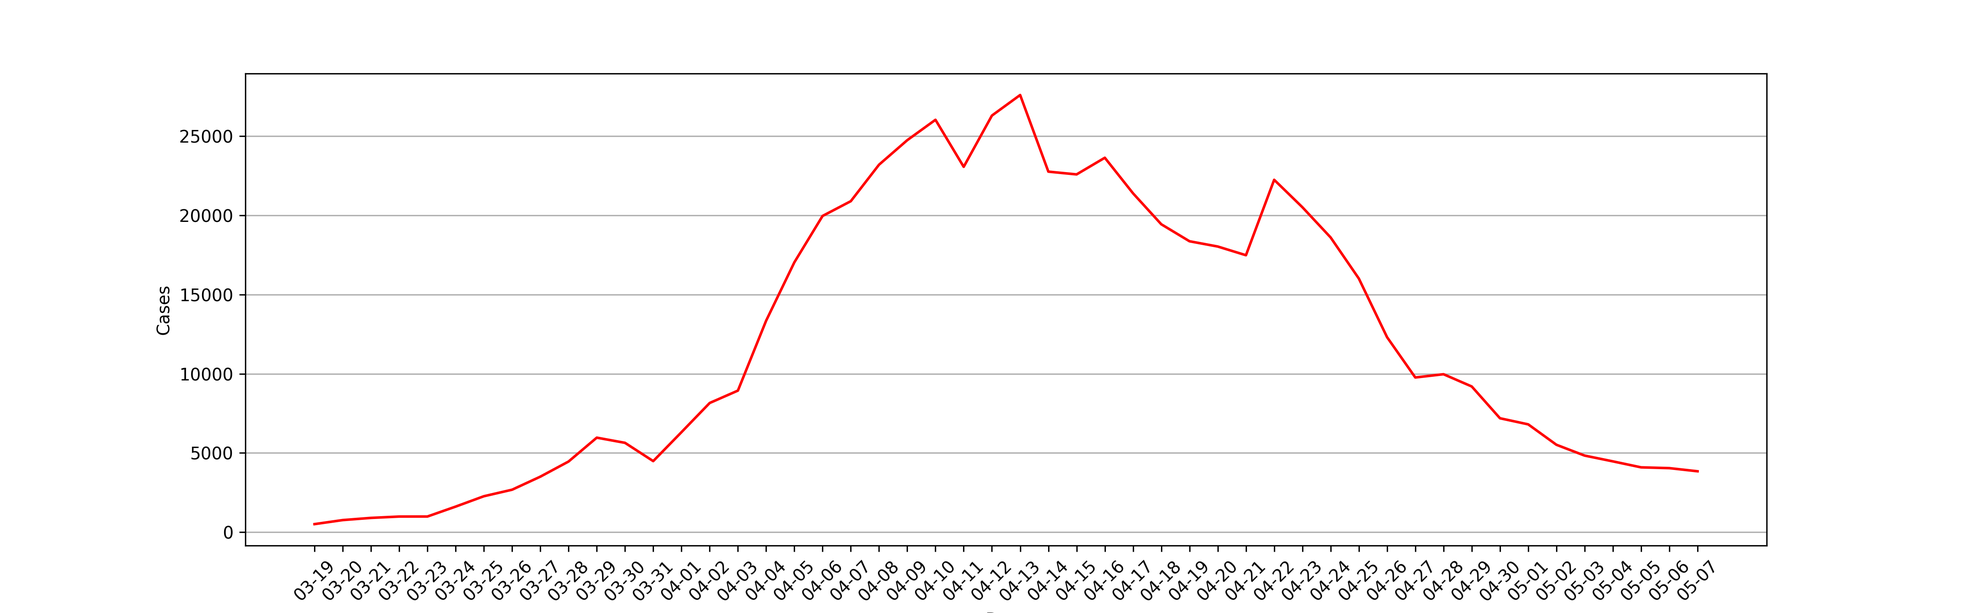
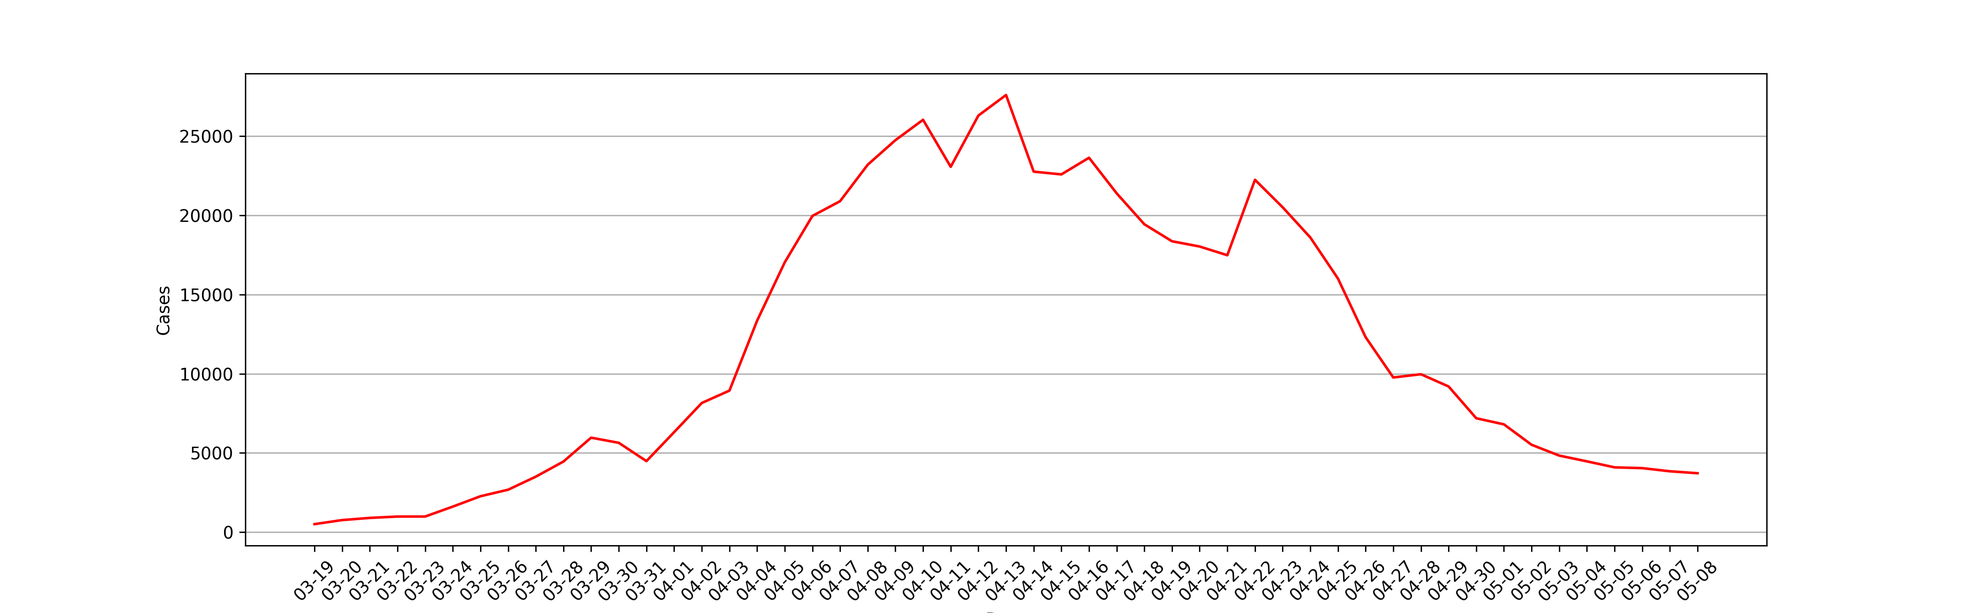
Commit by bot @ 05/09/22 11:15:01

diff --git a/archived_html/ca1c837f0d2411f369e3c361c743ecce.html b/archived_html/ca1c837f0d2411f369e3c361c743ecce.html
@@ -1,0 +1,151 @@
+<!DOCTYPE html>
+<html lang="zh-Hans">
+<head>
+    <meta charset="utf-8">
+    <meta http-equiv="Content-Security-Policy" content="upgrade-insecure-requests">
+    <meta name="viewport" content="width=device-width, initial-scale=1, maximum-scale=1, user-scalable=no">
+    <meta http-equiv="X-UA-Compatible" content="IE=Edge,chrome=1">
+    <meta http-equiv="Cache-Control" content="no-siteapp" />
+    <meta name="renderer" content="webkit">
+    <meta name="apple-mobile-web-app-capable" content="yes" />
+    <meta name="apple-mobile-web-app-status-bar-style" content="black" />
+    <title>上海2022年5月8日，新增本土新冠肺炎确诊病例322例 新增本土无症状感染者3625例 新增境外输入性新冠肺炎确诊病例2例 新增境外输入性无症状感染者1例__上海市卫生健康委员会</title>
+    <meta name="ColumnDescription" content="新闻发布"><!-- * -->
+    <meta name="ColumnKeywords" content="新闻发布"><!-- * -->
+    <!--<meta name="ColumnType" content=""> * -->
+    <meta name="ColumnName" content="新闻发布"><!-- * -->
+    <meta name="ArticleTitle" content="上海2022年5月8日，新增本土新冠肺炎确诊病例322例 新增本土无症状感染者3625例 新增境外输入性新冠肺炎确诊病例2例 新增境外输入性无症状感染者1例"><!-- * -->
+    <meta name="PubDate" content="2022-05-09"><!-- * -->
+    <meta name="ContentSource" content="上海市卫生健康委员会"><!-- * -->
+    <meta name="Author" content="上海市卫生健康委员会">
+    <meta name="Description" content="" />
+    <meta name="applicable-device" content="pc;mobile">
+    <meta name="location" content="北纬N31°11′51.89″ 东经E121°30′5.42″">
+    <!-- min CSS -->
+    <link rel="stylesheet" href="/assets/css/ETUI/ETUI3.min.css">
+    <!-- Custom CSS -->
+    <link rel="stylesheet" href="/assets/plugin/owl/owl.carousel.css">
+    <link rel="stylesheet" href="/assets/css/style.css">
+    <link rel="stylesheet" href="/assets/css/responsive.css">
+    <link rel="stylesheet" href="/assets/css/ETUI/ETUI3.Utility.css">
+    <!-- icons -->
+    <link rel="shortcut icon" href="/assets/img/ico/favicon.png">
+    <!-- 无障碍工具条 -->
+   <!-- <link rel="stylesheet" href="http://www.shanghai.gov.cn/jhelper_V2.0/jhelper_tool_style.css">
+    <script src="http://www.shanghai.gov.cn/jhelper_V2.0/wsj/jhelper_config.js" charset="gb2312"></script>
+    <noscript>不能读取工具条配置</noscript>
+    <script src="http://www.shanghai.gov.cn/jhelper_V2.0/jhelper_2.0.js" charset="gb2312"></script>
+    <noscript>不能读取工具条</noscript> 
+     -->
+    <script type="text/javascript">
+        function onsubmmit(pageIndex){
+            $("#pageIndex").val(1);
+            $("#searchField").val("0");
+            $("#timeScope").val("0");
+            $("#cmsSearchId").val("0");
+            $("#searchForm").submit();
+        }
+        function onselsubmmit(){
+            $("#pageIndex").val(1);
+            $("#searchForm").submit();
+        }
+        function psubmmit(pageIndex){
+            $("#pageIndex").val(pageIndex);
+            $("#searchForm").submit();
+        }
+        // 栏目
+        function chsubmmit(searchChId){
+            $("#pageIndex").val(1);
+            $("#searchField").val("0");
+            $("#timeScope").val("0");
+            $("#cmsSearchId").val(searchChId);
+            $("#searchForm").submit();
+        }
+    </script> 
+    <!-- 无障碍工具条 -->
+</head>
+<body>
+    <div id="accessNull"></div>
+    <div id="container">
+        <div class="channelinfo hidden"></div>
+        <script src="/assets/js/header.js"></script>
+        <div class="main" id="main">
+            <script src="/assets/js/jiansuo.js"></script>
+            <div class="main-container margin-top-15">
+                <div class="container ">
+                    <div class="relitive">
+                        <ol class="breadcrumb">
+                           <span>您现在所在的位置：</span>
+                            <li><a href="/index.html">首页</a></li>
+                            <li class="active">新闻中心</li>
+                           
+                            <li class="active">新闻发布</li>
+                           
+                        </ol>
+                        <div class="date-se">
+                            <i class="iconfont">&#xe60b;</i> <span id="time"></span>
+                        </div>
+                    </div>
+
+                    <div class="Article">
+                        <h2 id="ivs_title" class="Article-title">上海2022年5月8日，新增本土新冠肺炎确诊病例322例 新增本土无症状感染者3625例 新增境外输入性新冠肺炎确诊病例2例 新增境外输入性无症状感染者1例</br>
+                         <h2 class="Article-title">
+                            <small id="ivs_date" class="Article-time">( 2022-05-09)</small>
+                        </h2>
+                        <div id="ivs_player" style="text-align:center;"></div>
+                        <div id="ivs_content" class="Article_content">
+                           
+                                 <p style="font-size: medium;white-space: normal;margin-top: 10px;text-indent: 40px"><span style="font-size: 20px;font-family: 仿宋_GB2312">市卫健委今早（9日）通报：2022年5月8日0—24时，新增本土新冠肺炎确诊病例322例和无症状感染者3625例，其中230例确诊病例为既往无症状感染者转归，92例确诊病例和3616例无症状感染者在隔离管控中发现。新增境外输入性新冠肺炎确诊病例2例和无症状感染者1例，均在闭环管控中发现。</span></p><p style="font-size: medium;white-space: normal;margin-top: 10px;text-indent: 40px"><span style="font-size: 20px;font-family: 仿宋_GB2312">2022</span><span style="font-size: 20px;font-family: 仿宋_GB2312">年5月8日0—24时，新增本土新冠肺炎确诊病例322例，含230例由既往无症状感染者转为确诊病例。新增治愈出院645例。</span></p><p style="font-size: medium;white-space: normal;margin-top: 10px;text-indent: 40px"><strong><span style="font-size: 20px;font-family: 黑体">病例1—病例19</span></strong><span style="font-size: 20px;font-family: 仿宋_GB2312">，居住于浦东新区，</span><strong><span style="font-size: 20px;font-family: 黑体">病例20—病例26</span></strong><span style="font-size: 20px;font-family: 仿宋_GB2312">，居住于黄浦区，</span><strong><span style="font-size: 20px;font-family: 黑体">病例27—病例33</span></strong><span style="font-size: 20px;font-family: 仿宋_GB2312">，居住于徐汇区，</span><strong><span style="font-size: 20px;font-family: 黑体">病例34、病例35</span></strong><span style="font-size: 20px;font-family: 仿宋_GB2312">，居住于长宁区，</span><strong><span style="font-size: 20px;font-family: 黑体">病例36—病例51</span></strong><span style="font-size: 20px;font-family: 仿宋_GB2312">，居住于静安区，</span><strong><span style="font-size: 20px;font-family: 黑体">病例52—病例54</span></strong><span style="font-size: 20px;font-family: 仿宋_GB2312">，居住于普陀区，</span><strong><span style="font-size: 20px;font-family: 黑体">病例55—病例70</span></strong><span style="font-size: 20px;font-family: 仿宋_GB2312">，居住于虹口区，</span><strong><span style="font-size: 20px;font-family: 黑体">病例71—病例76</span></strong><span style="font-size: 20px;font-family: 仿宋_GB2312">，居住于杨浦区，</span><strong><span style="font-size: 20px;font-family: 黑体">病例77—病例80</span></strong><span style="font-size: 20px;font-family: 仿宋_GB2312">，居住于闵行区，</span><strong><span style="font-size: 20px;font-family: 黑体">病例81—病例88</span></strong><span style="font-size: 20px;font-family: 仿宋_GB2312">，居住于宝山区，</span><strong><span style="font-size: 20px;font-family: 黑体">病例89</span></strong><span style="font-size: 20px;font-family: 仿宋_GB2312">，居住于嘉定区，</span><strong><span style="font-size: 20px;font-family: 黑体">病例90—病例92</span></strong><span style="font-size: 20px;font-family: 仿宋_GB2312">，居住于松江区，均为本市闭环隔离管控人员，其间新冠病毒核酸检测结果异常，经疾控中心复核结果为阳性。经市级专家会诊，综合流行病学史、临床症状、实验室检测和影像学检查结果等，诊断为确诊病例。</span></p><p style="font-size: medium;white-space: normal;margin-top: 10px;text-indent: 40px"><strong><span style="font-size: 20px;font-family: 黑体">病例93—病例107</span></strong><span style="font-size: 20px;font-family: 仿宋_GB2312">，居住于浦东新区，</span><strong><span style="font-size: 20px;font-family: 黑体">病例108—病例160</span></strong><span style="font-size: 20px;font-family: 仿宋_GB2312">，居住于黄浦区，</span><strong><span style="font-size: 20px;font-family: 黑体">病例161—病例175</span></strong><span style="font-size: 20px;font-family: 仿宋_GB2312">，居住于徐汇区，</span><strong><span style="font-size: 20px;font-family: 黑体">病例176—病例180</span></strong><span style="font-size: 20px;font-family: 仿宋_GB2312">，居住于长宁区，</span><strong><span style="font-size: 20px;font-family: 黑体">病例181—病例202</span></strong><span style="font-size: 20px;font-family: 仿宋_GB2312">，居住于静安区，</span><strong><span style="font-size: 20px;font-family: 黑体">病例203、病例204</span></strong><span style="font-size: 20px;font-family: 仿宋_GB2312">，居住于普陀区，</span><strong><span style="font-size: 20px;font-family: 黑体">病例205—病例242</span></strong><span style="font-size: 20px;font-family: 仿宋_GB2312">，居住于虹口区，</span><strong><span style="font-size: 20px;font-family: 黑体">病例243—病例254</span></strong><span style="font-size: 20px;font-family: 仿宋_GB2312">，居住于杨浦区，</span><strong><span style="font-size: 20px;font-family: 黑体">病例255—病例259</span></strong><span style="font-size: 20px;font-family: 仿宋_GB2312">，居住于闵行区，</span><strong><span style="font-size: 20px;font-family: 黑体">病例260—病例276</span></strong><span style="font-size: 20px;font-family: 仿宋_GB2312">，居住于宝山区，</span><strong><span style="font-size: 20px;font-family: 黑体">病例277—病例302</span></strong><span style="font-size: 20px;font-family: 仿宋_GB2312">，居住于嘉定区，</span><strong><span style="font-size: 20px;font-family: 黑体">病例303、病例304</span></strong><span style="font-size: 20px;font-family: 仿宋_GB2312">，居住于金山区，</span><strong><span style="font-size: 20px;font-family: 黑体">病例305—病例314</span></strong><span style="font-size: 20px;font-family: 仿宋_GB2312">，居住于松江区，</span><strong><span style="font-size: 20px;font-family: 黑体">病例315</span></strong><span style="font-size: 20px;font-family: 仿宋_GB2312">，居住于青浦区，</span><strong><span style="font-size: 20px;font-family: 黑体">病例316—病例319</span></strong><span style="font-size: 20px;font-family: 仿宋_GB2312">，居住于奉贤区，</span><strong><span style="font-size: 20px;font-family: 黑体">病例320—病例322</span></strong><span style="font-size: 20px;font-family: 仿宋_GB2312">，居住于崇明区，</span><span style="font-size: 20px;font-family: 仿宋_GB2312">为此前报告的本土无症状感染者。</span><span style="font-size: 20px;font-family: 仿宋_GB2312">经市级专家会诊，综合流行病学史、临床症状、实验室检测和影像学检查结果等，诊断为确诊病例。</span></p><p style="font-size: medium;white-space: normal;margin-top: 10px;text-indent: 40px"><span style="font-size: 20px;font-family: 仿宋_GB2312">2022</span><span style="font-size: 20px;font-family: 仿宋_GB2312">年5月8日0—24时，新增本土死亡11例。平均年龄78.9岁，最小年龄49岁，最大年龄92岁。11位患者合并有多种严重的慢性基础疾病及晚期肿瘤，包括晚期肝癌、胃癌、淋巴瘤以及肝硬化失代偿、冠心病、急性冠脉综合征、心功能不全、阿尔兹海默症、脑梗死后遗症、脊髓灰质炎后遗症、糖尿病等。患者入院后，因原发疾病加重，抢救无效死亡。死亡的直接原因为基础疾病或恶性肿瘤。</span></p><p style="font-size: medium;white-space: normal;margin-top: 10px;text-indent: 40px"><span style="font-size: 20px;font-family: 仿宋_GB2312">2022</span><span style="font-size: 20px;font-family: 仿宋_GB2312">年5月8日0—24时，新增本土无症状感染者3625例。</span></p><p style="font-size: medium;white-space: normal;margin-top: 10px;text-indent: 40px"><strong><span style="font-size: 20px;font-family: 黑体">无症状感染者1—无症状感染者656</span></strong><span style="font-size: 20px;font-family: 仿宋_GB2312">，居住于浦东新区，</span><strong><span style="font-size: 20px;font-family: 黑体">无症状感染者657—无症状感染者1098</span></strong><span style="font-size: 20px;font-family: 仿宋_GB2312">，居住于黄浦区，</span><strong><span style="font-size: 20px;font-family: 黑体">无症状感染者1099—无症状感染者1381</span></strong><span style="font-size: 20px;font-family: 仿宋_GB2312">，居住于徐汇区，</span><strong><span style="font-size: 20px;font-family: 黑体">无症状感染者1382—无症状感染者1451</span></strong><span style="font-size: 20px;font-family: 仿宋_GB2312">，居住于长宁区，</span><strong><span style="font-size: 20px;font-family: 黑体">无症状感染者1452—无症状感染者2032</span></strong><span style="font-size: 20px;font-family: 仿宋_GB2312">，居住于静安区，</span><strong><span style="font-size: 20px;font-family: 黑体">无症状感染者2033—无症状感染者2076</span></strong><span style="font-size: 20px;font-family: 仿宋_GB2312">，居住于普陀区，</span><strong><span style="font-size: 20px;font-family: 黑体">无症状感染者2077—无症状感染者2339</span></strong><span style="font-size: 20px;font-family: 仿宋_GB2312">，居住于虹口区，</span><strong><span style="font-size: 20px;font-family: 黑体">无症状感染者2340—无症状感染者2897</span></strong><span style="font-size: 20px;font-family: 仿宋_GB2312">，居住于杨浦区，</span><strong><span style="font-size: 20px;font-family: 黑体">无症状感染者2898—无症状感染者3113</span></strong><span style="font-size: 20px;font-family: 仿宋_GB2312">，居住于闵行区，</span><strong><span style="font-size: 20px;font-family: 黑体">无症状感染者3114—无症状感染者3420</span></strong><span style="font-size: 20px;font-family: 仿宋_GB2312">，居住于宝山区，</span><strong><span style="font-size: 20px;font-family: 黑体">无症状感染者3421—无症状感染者3529</span></strong><span style="font-size: 20px;font-family: 仿宋_GB2312">，居住于嘉定区，</span><strong><span style="font-size: 20px;font-family: 黑体">无症状感染者3530、无症状感染者3531</span></strong><span style="font-size: 20px;font-family: 仿宋_GB2312">，居住于金山区，</span><strong><span style="font-size: 20px;font-family: 黑体">无症状感染者3532—无症状感染者3553</span></strong><span style="font-size: 20px;font-family: 仿宋_GB2312">，居住于松江区，</span><strong><span style="font-size: 20px;font-family: 黑体">无症状感染者3554—无症状感染者3601</span></strong><span style="font-size: 20px;font-family: 仿宋_GB2312">，居住于青浦区，</span><strong><span style="font-size: 20px;font-family: 黑体">无症状感染者3602、无症状感染者3603</span></strong><span style="font-size: 20px;font-family: 仿宋_GB2312">，居住于奉贤区，</span><strong><span style="font-size: 20px;font-family: 黑体">无症状感染者3604—无症状感染者3616</span></strong><span style="font-size: 20px;font-family: 仿宋_GB2312">，居住于崇明区，</span><span style="font-size: 20px;font-family: 仿宋_GB2312">均为本市闭环隔离管控人员，其间新冠病毒核酸检测结果异常，经疾控中心复核结果为阳性，诊断为无症状感染者。</span></p><p style="font-size: medium;white-space: normal;margin-top: 10px;text-indent: 40px"><strong><span style="font-size: 20px;font-family: 黑体">无症状感染者3617、无症状感染者3618</span></strong><span style="font-size: 20px;font-family: 仿宋_GB2312">，居住于浦东新区，</span><strong><span style="font-size: 20px;font-family: 黑体">无症状感染者3619</span></strong><span style="font-size: 20px;font-family: 仿宋_GB2312">，居住于徐汇区，</span><strong><span style="font-size: 20px;font-family: 黑体">无症状感染者3620</span></strong><span style="font-size: 20px;font-family: 仿宋_GB2312">，居住于静安区，</span><strong><span style="font-size: 20px;font-family: 黑体">无症状感染者3621—无症状感染者3625</span></strong><span style="font-size: 20px;font-family: 仿宋_GB2312">，居住于松江区，</span><span style="font-size: 20px;font-family: 仿宋_GB2312">在风险人群筛查中发现新冠病毒核酸检测结果异常，即被隔离管控。经疾控中心复核结果为阳性，诊断为无症状感染者。</span></p><p style="font-size: medium;white-space: normal;text-indent: 40px"><span style="font-size: 20px;font-family: 仿宋_GB2312">2022</span><span style="font-size: 20px;font-family: 仿宋_GB2312">年5月8日0—24时，通过口岸联防联控机制，报告2例</span><span style="font-size: 20px;font-family: 仿宋_GB2312">新增境外输入性新冠肺炎确诊病例</span><span style="font-size: 20px;font-family: 仿宋_GB2312">。</span></p><p style="font-size: medium;white-space: normal;text-indent: 40px"><strong><span style="font-size: 20px;font-family: 黑体">病例1、病例2</span></strong><span style="font-size: 20px;font-family: 仿宋_GB2312">均为中国籍，在英国留学，自英国出发，经芬兰转机，乘坐同一航班于2022年4月22日抵达上海浦东国际机场，入关后即被集中隔离观察，解除隔离前出现症状，即送指定医疗机构隔离排查。经专家组会诊，综合流行病学史、临床症状、实验室检测和影像学检查结果等，诊断为确诊病例。</span></p><p style="font-size: medium;white-space: normal;text-indent: 40px"><span style="font-size: 20px;font-family: 仿宋_GB2312">2</span><span style="font-size: 20px;font-family: 仿宋_GB2312">例境外输入性确诊病例已转至定点医疗机构救治，同航班密切接触者此前均已落实集中隔离观察。</span></p><p style="font-size: medium;white-space: normal;text-indent: 40px"><span style="font-size: 20px;font-family: 仿宋_GB2312">2022</span><span style="font-size: 20px;font-family: 仿宋_GB2312">年5月8日0—24时，新增境外输入性无症状感染者1例。</span></p><p style="font-size: medium;white-space: normal;text-indent: 40px"><strong><span style="font-size: 20px;font-family: 黑体">该无症状感染者</span></strong><span style="font-size: 20px;font-family: 仿宋_GB2312">为中国籍，在加拿大留学，自加拿大出发，于2022年5月6日抵达上海浦东国际机场，入关后即被集中隔离观察，其间例行核酸检测异常。经排查，区疾控中心新冠病毒核酸检测结果为阳性。综合流行病学史、临床症状、实验室检测和影像学检查结果等，诊断为无症状感染者。</span></p><p style="font-size: medium;white-space: normal;text-indent: 40px"><span style="font-size: 20px;font-family: 仿宋_GB2312">该境外输入性无症状感染者已转至定点医疗机构医学观察，已追踪同航班密切接触者25人，均已落实集中隔离观察。</span></p><p style="font-size: medium;white-space: normal;text-indent: 40px"><span style="font-size: 20px;font-family: 仿宋_GB2312">2022</span><span style="font-size: 20px;font-family: 仿宋_GB2312">年5月8日0—24时，解除医学观察本土无症状感染者8069例。</span></p><p style="font-size: medium;white-space: normal;margin-top: 10px;text-indent: 40px;vertical-align: baseline"><span style="font-size: 20px;font-family: 仿宋_GB2312">2022</span><span style="font-size: 20px;font-family: 仿宋_GB2312">年2月26日0时至2022年5月8日24时，累计本土确诊55921例，治愈出院48743例，在院治疗6631例（其中重型415例，危重型80例），死亡547例。现有待排查的疑似病例0例。</span></p><p style="font-size: medium;white-space: normal;margin-top: 10px;text-indent: 40px;vertical-align: baseline"><span style="font-size: 20px;font-family: 仿宋_GB2312">截至2022年5月8日24时，累计境外输入性确诊病例4594例，出院4580例，在院治疗14例。现有待排查的疑似病例0例。</span></p><p style="font-size: medium;white-space: normal;margin-top: 10px;text-indent: 40px;vertical-align: baseline"><span style="font-size: 20px;font-family: 仿宋_GB2312">&nbsp;</span></p><table align="center" cellspacing="0" cellpadding="0" width="544"><tbody><tr style="height: 24px" class="firstRow"><td width="379" colspan="2" style="border-width: 1px; border-color: windowtext; padding: 0px 7px; border-style: solid;" height="24"><p style="text-align: center;vertical-align: baseline"><strong><span style="font-size: 19px;font-family: 仿宋_GB2312">区域</span></strong></p></td><td width="165" style="border-width: 1px; border-top-color: windowtext; border-right-color: windowtext; border-bottom-color: windowtext; border-style: solid; border-left-color: initial; padding: 0px 7px;" height="24"><p style="text-align: center;vertical-align: baseline"><strong><span style="font-size: 19px;font-family: 仿宋_GB2312">在院治疗确诊病例</span></strong></p></td></tr><tr style="height: 42px"><td width="213" rowspan="7" style="border-width: 1px; border-right-color: windowtext; border-bottom-color: windowtext; border-left-color: windowtext; border-style: solid; border-top-color: initial; padding: 0px 7px;" height="42"><p style="text-align: center;vertical-align: baseline"><span style="font-size: 19px;font-family: 仿宋_GB2312">境外输入人员</span></p><p style="text-align: center;vertical-align: baseline"><span style="font-size: 19px;font-family: 仿宋_GB2312">（按输入地分）</span></p></td><td width="165" valign="top" style="border-width: 1px; border-style: solid; border-top-color: initial; border-left-color: initial; border-bottom-color: windowtext; border-right-color: windowtext; padding: 0px 7px;" height="42"><p style="text-align: center;vertical-align: middle"><span style="font-size: 19px;font-family: 仿宋_GB2312">加拿大</span></p></td><td width="165" valign="top" style="border-width: 1px; border-style: solid; border-top-color: initial; border-left-color: initial; border-bottom-color: windowtext; border-right-color: windowtext; padding: 0px 7px;" height="42"><p style="text-align: center;vertical-align: middle"><span style="font-size: 19px;font-family: 仿宋_GB2312">7</span></p></td></tr><tr style="height: 42px"><td width="165" valign="top" style="border-width: 1px; border-style: solid; border-top-color: initial; border-left-color: initial; border-bottom-color: windowtext; border-right-color: windowtext; padding: 0px 7px;" height="42"><p style="text-align: center;vertical-align: middle"><span style="font-size: 19px;font-family: 仿宋_GB2312">英国</span></p></td><td width="165" valign="top" style="border-width: 1px; border-style: solid; border-top-color: initial; border-left-color: initial; border-bottom-color: windowtext; border-right-color: windowtext; padding: 0px 7px;" height="42"><p style="text-align: center;vertical-align: middle"><span style="font-size: 19px;font-family: 仿宋_GB2312">2</span></p></td></tr><tr style="height: 33px"><td width="165" valign="top" style="border-width: 1px; border-style: solid; border-top-color: initial; border-left-color: initial; border-bottom-color: windowtext; border-right-color: windowtext; padding: 0px 7px;" height="33"><p style="text-align: center;vertical-align: middle"><span style="font-size: 19px;font-family: 仿宋_GB2312">科特迪瓦</span></p></td><td width="165" valign="top" style="border-width: 1px; border-style: solid; border-top-color: initial; border-left-color: initial; border-bottom-color: windowtext; border-right-color: windowtext; padding: 0px 7px;" height="33"><p style="text-align: center;vertical-align: middle"><span style="font-size: 19px;font-family: 仿宋_GB2312">1</span></p></td></tr><tr style="height: 33px"><td width="165" valign="top" style="border-width: 1px; border-style: solid; border-top-color: initial; border-left-color: initial; border-bottom-color: windowtext; border-right-color: windowtext; padding: 0px 7px;" height="33"><p style="text-align: center;vertical-align: middle"><span style="font-size: 19px;font-family: 仿宋_GB2312">法国</span></p></td><td width="165" valign="top" style="border-width: 1px; border-style: solid; border-top-color: initial; border-left-color: initial; border-bottom-color: windowtext; border-right-color: windowtext; padding: 0px 7px;" height="33"><p style="text-align: center;vertical-align: middle"><span style="font-size: 19px;font-family: 仿宋_GB2312">1</span></p></td></tr><tr style="height: 33px"><td width="165" valign="top" style="border-width: 1px; border-style: solid; border-top-color: initial; border-left-color: initial; border-bottom-color: windowtext; border-right-color: windowtext; padding: 0px 7px;" height="33"><p style="text-align: center;vertical-align: middle"><span style="font-size: 19px;font-family: 仿宋_GB2312">美国</span></p></td><td width="165" valign="top" style="border-width: 1px; border-style: solid; border-top-color: initial; border-left-color: initial; border-bottom-color: windowtext; border-right-color: windowtext; padding: 0px 7px;" height="33"><p style="text-align: center;vertical-align: middle"><span style="font-size: 19px;font-family: 仿宋_GB2312">1</span></p></td></tr><tr style="height: 33px"><td width="165" valign="top" style="border-width: 1px; border-style: solid; border-top-color: initial; border-left-color: initial; border-bottom-color: windowtext; border-right-color: windowtext; padding: 0px 7px;" height="33"><p style="text-align: center;vertical-align: middle"><span style="font-size: 19px;font-family: 仿宋_GB2312">乌干达</span></p></td><td width="165" valign="top" style="border-width: 1px; border-style: solid; border-top-color: initial; border-left-color: initial; border-bottom-color: windowtext; border-right-color: windowtext; padding: 0px 7px;" height="33"><p style="text-align: center;vertical-align: middle"><span style="font-size: 19px;font-family: 仿宋_GB2312">1</span></p></td></tr><tr style="height: 33px"><td width="165" valign="top" style="border-width: 1px; border-style: solid; border-top-color: initial; border-left-color: initial; border-bottom-color: windowtext; border-right-color: windowtext; padding: 0px 7px;" height="33"><p style="text-align: center;vertical-align: middle"><span style="font-size: 19px;font-family: 仿宋_GB2312">德国</span></p></td><td width="165" valign="top" style="border-width: 1px; border-style: solid; border-top-color: initial; border-left-color: initial; border-bottom-color: windowtext; border-right-color: windowtext; padding: 0px 7px;" height="33"><p style="text-align: center;vertical-align: middle"><span style="font-size: 19px;font-family: 仿宋_GB2312">1</span></p></td></tr><tr style="height: 33px"><td width="213" rowspan="16" style="border-width: 1px; border-right-color: windowtext; border-bottom-color: windowtext; border-left-color: windowtext; border-style: solid; border-top-color: initial; padding: 0px 7px;" height="33"><p style="text-indent: 19px;vertical-align: baseline"><span style="font-size: 19px;font-family: 仿宋_GB2312">本市居住或工作地</span></p></td><td width="165" style="border-width: 1px; border-style: solid; border-top-color: initial; border-left-color: initial; border-bottom-color: windowtext; border-right-color: windowtext; padding: 0px 7px;" height="33"><p style="text-align: center;vertical-align: middle"><span style="font-size: 19px;font-family: 仿宋_GB2312">浦东</span></p></td><td width="165" style="border-width: 1px; border-style: solid; border-top-color: initial; border-left-color: initial; border-bottom-color: windowtext; border-right-color: windowtext; padding: 0px 7px;" height="33"><p style="text-align: center"><span style="font-size: 19px;font-family: 仿宋_GB2312">845</span></p></td></tr><tr style="height: 33px"><td width="165" style="border-width: 1px; border-style: solid; border-top-color: initial; border-left-color: initial; border-bottom-color: windowtext; border-right-color: windowtext; padding: 0px 7px;" height="33"><p style="text-align: center;vertical-align: middle"><span style="font-size: 19px;font-family: 仿宋_GB2312">黄浦</span></p></td><td width="165" style="border-width: 1px; border-style: solid; border-top-color: initial; border-left-color: initial; border-bottom-color: windowtext; border-right-color: windowtext; padding: 0px 7px;" height="33"><p style="text-align: center"><span style="font-size: 19px;font-family: 仿宋_GB2312">955</span></p></td></tr><tr style="height: 33px"><td width="165" style="border-width: 1px; border-style: solid; border-top-color: initial; border-left-color: initial; border-bottom-color: windowtext; border-right-color: windowtext; padding: 0px 7px;" height="33"><p style="text-align: center;vertical-align: middle"><span style="font-size: 19px;font-family: 仿宋_GB2312">徐汇</span></p></td><td width="165" style="border-width: 1px; border-style: solid; border-top-color: initial; border-left-color: initial; border-bottom-color: windowtext; border-right-color: windowtext; padding: 0px 7px;" height="33"><p style="text-align: center"><span style="font-size: 19px;font-family: 仿宋_GB2312">824</span></p></td></tr><tr style="height: 33px"><td width="165" style="border-width: 1px; border-style: solid; border-top-color: initial; border-left-color: initial; border-bottom-color: windowtext; border-right-color: windowtext; padding: 0px 7px;" height="33"><p style="text-align: center;vertical-align: middle"><span style="font-size: 19px;font-family: 仿宋_GB2312">长宁</span></p></td><td width="165" style="border-width: 1px; border-style: solid; border-top-color: initial; border-left-color: initial; border-bottom-color: windowtext; border-right-color: windowtext; padding: 0px 7px;" height="33"><p style="text-align: center"><span style="font-size: 19px;font-family: 仿宋_GB2312">443</span></p></td></tr><tr style="height: 33px"><td width="165" style="border-width: 1px; border-style: solid; border-top-color: initial; border-left-color: initial; border-bottom-color: windowtext; border-right-color: windowtext; padding: 0px 7px;" height="33"><p style="text-align: center;vertical-align: middle"><span style="font-size: 19px;font-family: 仿宋_GB2312">静安</span></p></td><td width="165" style="border-width: 1px; border-style: solid; border-top-color: initial; border-left-color: initial; border-bottom-color: windowtext; border-right-color: windowtext; padding: 0px 7px;" height="33"><p style="text-align: center"><span style="font-size: 19px;font-family: 仿宋_GB2312">747</span></p></td></tr><tr style="height: 33px"><td width="165" style="border-width: 1px; border-style: solid; border-top-color: initial; border-left-color: initial; border-bottom-color: windowtext; border-right-color: windowtext; padding: 0px 7px;" height="33"><p style="text-align: center;vertical-align: middle"><span style="font-size: 19px;font-family: 仿宋_GB2312">普陀</span></p></td><td width="165" style="border-width: 1px; border-style: solid; border-top-color: initial; border-left-color: initial; border-bottom-color: windowtext; border-right-color: windowtext; padding: 0px 7px;" height="33"><p style="text-align: center"><span style="font-size: 19px;font-family: 仿宋_GB2312">426</span></p></td></tr><tr style="height: 33px"><td width="165" style="border-width: 1px; border-style: solid; border-top-color: initial; border-left-color: initial; border-bottom-color: windowtext; border-right-color: windowtext; padding: 0px 7px;" height="33"><p style="text-align: center;vertical-align: middle"><span style="font-size: 19px;font-family: 仿宋_GB2312">虹口</span></p></td><td width="165" style="border-width: 1px; border-style: solid; border-top-color: initial; border-left-color: initial; border-bottom-color: windowtext; border-right-color: windowtext; padding: 0px 7px;" height="33"><p style="text-align: center"><span style="font-size: 19px;font-family: 仿宋_GB2312">729</span></p></td></tr><tr style="height: 33px"><td width="165" style="border-width: 1px; border-style: solid; border-top-color: initial; border-left-color: initial; border-bottom-color: windowtext; border-right-color: windowtext; padding: 0px 7px;" height="33"><p style="text-align: center;vertical-align: middle"><span style="font-size: 19px;font-family: 仿宋_GB2312">杨浦</span></p></td><td width="165" style="border-width: 1px; border-style: solid; border-top-color: initial; border-left-color: initial; border-bottom-color: windowtext; border-right-color: windowtext; padding: 0px 7px;" height="33"><p style="text-align: center"><span style="font-size: 19px;font-family: 仿宋_GB2312">559</span></p></td></tr><tr style="height: 33px"><td width="165" style="border-width: 1px; border-style: solid; border-top-color: initial; border-left-color: initial; border-bottom-color: windowtext; border-right-color: windowtext; padding: 0px 7px;" height="33"><p style="text-align: center;vertical-align: middle"><span style="font-size: 19px;font-family: 仿宋_GB2312">闵行</span></p></td><td width="165" style="border-width: 1px; border-style: solid; border-top-color: initial; border-left-color: initial; border-bottom-color: windowtext; border-right-color: windowtext; padding: 0px 7px;" height="33"><p style="text-align: center"><span style="font-size: 19px;font-family: 仿宋_GB2312">493</span></p></td></tr><tr style="height: 33px"><td width="165" style="border-width: 1px; border-style: solid; border-top-color: initial; border-left-color: initial; border-bottom-color: windowtext; border-right-color: windowtext; padding: 0px 7px;" height="33"><p style="text-align: center;vertical-align: middle"><span style="font-size: 19px;font-family: 仿宋_GB2312">宝山</span></p></td><td width="165" style="border-width: 1px; border-style: solid; border-top-color: initial; border-left-color: initial; border-bottom-color: windowtext; border-right-color: windowtext; padding: 0px 7px;" height="33"><p style="text-align: center"><span style="font-size: 19px;font-family: 仿宋_GB2312">319</span></p></td></tr><tr style="height: 33px"><td width="165" style="border-width: 1px; border-style: solid; border-top-color: initial; border-left-color: initial; border-bottom-color: windowtext; border-right-color: windowtext; padding: 0px 7px;" height="33"><p style="text-align: center;vertical-align: middle"><span style="font-size: 19px;font-family: 仿宋_GB2312">嘉定</span></p></td><td width="165" style="border-width: 1px; border-style: solid; border-top-color: initial; border-left-color: initial; border-bottom-color: windowtext; border-right-color: windowtext; padding: 0px 7px;" height="33"><p style="text-align: center"><span style="font-size: 19px;font-family: 仿宋_GB2312">32</span></p></td></tr><tr style="height: 33px"><td width="165" style="border-width: 1px; border-style: solid; border-top-color: initial; border-left-color: initial; border-bottom-color: windowtext; border-right-color: windowtext; padding: 0px 7px;" height="33"><p style="text-align: center;vertical-align: middle"><span style="font-size: 19px;font-family: 仿宋_GB2312">金山</span></p></td><td width="165" style="border-width: 1px; border-style: solid; border-top-color: initial; border-left-color: initial; border-bottom-color: windowtext; border-right-color: windowtext; padding: 0px 7px;" height="33"><p style="text-align: center"><span style="font-size: 19px;font-family: 仿宋_GB2312">5</span></p></td></tr><tr style="height: 33px"><td width="165" style="border-width: 1px; border-style: solid; border-top-color: initial; border-left-color: initial; border-bottom-color: windowtext; border-right-color: windowtext; padding: 0px 7px;" height="33"><p style="text-align: center;vertical-align: middle"><span style="font-size: 19px;font-family: 仿宋_GB2312">松江</span></p></td><td width="165" style="border-width: 1px; border-style: solid; border-top-color: initial; border-left-color: initial; border-bottom-color: windowtext; border-right-color: windowtext; padding: 0px 7px;" height="33"><p style="text-align: center"><span style="font-size: 19px;font-family: 仿宋_GB2312">14</span></p></td></tr><tr style="height: 33px"><td width="165" style="border-width: 1px; border-style: solid; border-top-color: initial; border-left-color: initial; border-bottom-color: windowtext; border-right-color: windowtext; padding: 0px 7px;" height="33"><p style="text-align: center;vertical-align: middle"><span style="font-size: 19px;font-family: 仿宋_GB2312">青浦</span></p></td><td width="165" style="border-width: 1px; border-style: solid; border-top-color: initial; border-left-color: initial; border-bottom-color: windowtext; border-right-color: windowtext; padding: 0px 7px;" height="33"><p style="text-align: center"><span style="font-size: 19px;font-family: 仿宋_GB2312">24</span></p></td></tr><tr style="height: 33px"><td width="165" style="border-width: 1px; border-style: solid; border-top-color: initial; border-left-color: initial; border-bottom-color: windowtext; border-right-color: windowtext; padding: 0px 7px;" height="33"><p style="text-align: center;vertical-align: middle"><span style="font-size: 19px;font-family: 仿宋_GB2312">奉贤</span></p></td><td width="165" style="border-width: 1px; border-style: solid; border-top-color: initial; border-left-color: initial; border-bottom-color: windowtext; border-right-color: windowtext; padding: 0px 7px;" height="33"><p style="text-align: center"><span style="font-size: 19px;font-family: 仿宋_GB2312">80</span></p></td></tr><tr style="height: 33px"><td width="165" style="border-width: 1px; border-style: solid; border-top-color: initial; border-left-color: initial; border-bottom-color: windowtext; border-right-color: windowtext; padding: 0px 7px;" height="33"><p style="text-align: center;vertical-align: middle"><span style="font-size: 19px;font-family: 仿宋_GB2312">崇明</span></p></td><td width="165" style="border-width: 1px; border-style: solid; border-top-color: initial; border-left-color: initial; border-bottom-color: windowtext; border-right-color: windowtext; padding: 0px 7px;" height="33"><p style="text-align: center"><span style="font-size: 19px;font-family: 仿宋_GB2312">136</span></p></td></tr><tr style="height: 33px"><td width="379" colspan="2" style="border-width: 1px; border-right-color: windowtext; border-bottom-color: windowtext; border-left-color: windowtext; border-style: solid; border-top-color: initial; padding: 0px 7px;" height="33"><p style="text-align: center;vertical-align: baseline"><span style="font-size: 19px;font-family: 仿宋_GB2312">合计</span></p></td><td width="165" style="border-width: 1px; border-style: solid; border-top-color: initial; border-left-color: initial; border-bottom-color: windowtext; border-right-color: windowtext; padding: 0px 7px;" height="33"><p style="text-align: center;vertical-align: baseline"><span style="font-size: 19px;font-family: 仿宋_GB2312">6645</span></p></td></tr></tbody></table><p style="font-size: medium;white-space: normal;margin-top: 10px;text-indent: 43px;vertical-align: baseline"><span style="font-size: 21px;font-family: Calibri, sans-serif">&nbsp;</span></p><p style="font-size: medium;white-space: normal;margin-top: 10px;text-indent: 43px;vertical-align: baseline"><span style="font-size: 21px;font-family: Calibri, sans-serif">&nbsp;</span></p><p><br/></p>
+                        </div>
+                        </div>
+                    </div>
+                </div>
+            </div>
+        </div>
+        <script src="/assets/js/footer.js"></script>
+        </div>
+    <!--Main JS-->
+    <script src="/assets/js/ETUI/jquery.min.1.12.4.js"></script>
+    <!--[if lt IE 9]>
+    <script src="/assets/js/ETUI/html5shiv.min.js"></script>
+    <script src="/assets/js/ETUI/respond.min.js"></script>
+    <![endif]-->
+    <script src="/assets/js/ETUI/ETUI3.min.js"></script>
+    <script src="/assets/plugin/owl/owl.carousel.min.js"></script>
+    <!--Custom JS-->
+    <script src="/assets/js/main.js"></script>
+    <script src="/assets/js/language.js"></script>
+    <!-- <script src="/assets/js/Time.js"></script> -->
+    <!--
+  <script src="/assets/js/jhelper_config.js" charset="gb2312"></script>
+<script type="text/javascript" src="https://jhelper.shanghai.gov.cn/publicJS/3100000010.js"></script>
+-->
+<script src="https://wsjkw.sh.gov.cn/wza/jhelper_config.js" charset="gb2312"></script>
+    <script type="text/javascript" src="http://jhelper.shanghai.gov.cn/publicJS/3100000010.js"></script>
+   <!-- <script type="text/javascript" src="http://voice.ewdcloud.com.cn:9292/js/ew_msc.js"></script>-->
+    <script>
+        jQuery(document).ready(function () {
+            Main.init();
+        });
+        jQuery(document).ready(function () {
+	        getToolbarMod();
+        });
+    </script>
+    <script>
+        function currentTime(){
+            var d = new Date(),str = '';
+            str += d.getFullYear()+'年';
+            str  += d.getMonth() + 1+'月';
+            str  += d.getDate()+'日';
+            var a = new Array("日", "一", "二", "三", "四", "五", "六");
+            var week = new Date().getDay();
+            var tody = "星期"+ a[week];
+            str +=' ';
+            str  += tody ;
+            return str;
+
+        }
+        setInterval(function(){$('#time').html(currentTime)},1000);
+    </script>
+</body>
+</html>

diff --git a/README.md b/README.md
@@ -14,6 +14,7 @@ This project will be updated every day before Shanghai reopens. JSON files with 
 
 | Date/Details | New Cases(*)  | Deaths | Confirmed Cases | Asymptomatic Cases | A2C Cases(*) |
 | ---- | ---------- | ---------- | ---------------- | ----------------- | ---------------------------- |
+| 2022-05-08 | 3717 | 11 | 322 | 3625 | 230 |
 | 2022-05-07 | 3840 | 8 | 215 | 3760 | 135 |
 | 2022-05-06 | 4039 | 13 | 253 | 3961 | 175 |
 | 2022-05-05 | 4088 | 12 | 245 | 4024 | 181 |
@@ -74,6 +75,7 @@ This project will be updated every day before Shanghai reopens. JSON files with 
 
 | Date | Total Cases  | Total Deaths | Case‑Fatality-Rate |
 | ---- | ---------- | ---------- | ---------- |
+| 2022-05-08 | 607177 | 522 | 0.0860% |
 | 2022-05-07 | 603460 | 511 | 0.0847% |
 | 2022-05-06 | 599620 | 503 | 0.0839% |
 | 2022-05-05 | 595581 | 490 | 0.0823% |
